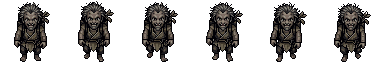
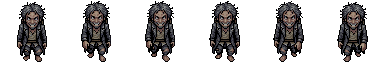
v6.6: Uslu ve Lin yeniden uretildi - kafa orani ve "orman kackini" sorunu
Iki sikayet de tarifteki eksikten geliyordu:
- Mannequin sablonu kucuk figurlerde KAFAYI BUYUTUYOR; Lin bu yuzden
  "anime kizi" gibi cikmisti. Artik ORAN sabiti var: "realistic body
  proportions with a SMALL head ... NOT chibi, NOT big-headed, NOT anime".
- Uslu'nun kabarik sac kutlesi ve kulagina sikistirilmis kuru bitki onu
  orman kackinina cevirmisti. Yeni tarif: sac yatik ve tenine yapisik,
  yirtik SEHIR paltosu, "NO leaves, NO plants, NO twigs, NOT a forest
  hermit, NOT a druid".
Lin artik kul rengi salli, sacini arkaya toplamis, coken yuzlu bir cocuk;
Uslu sigginakta aklini kaybetmis biri gibi duruyor.

Lin'in olcegi .8 -> .74 (oyuncunun %79'u kadardi; sekiz yasindaki bir
cocuk icin uzundu, simdi %73).

Maliyet: 2x(2 karakter + 3 yurume) = 10 uretim.

diff --git a/lib/game/world.ts b/lib/game/world.ts
@@ -57,7 +57,7 @@ export function makeWorld(zone:Zone,flags?:Record<string,string|boolean|undefine
   // ocagin yaninda. Tiga indiyse ve Tuhn ucurumdan cekildiyse ikisi de o atesin
   // basina gelir. `s` sprite olcegi: cocuklar icin ayni sheet kucuk cizilir.
   at({id:'selvi',type:'npc',x:13,y:6,name:'Elvi',portrait:9});
-  at({id:'nil',type:'npc',x:18,y:21,name:'Lin',portrait:7,s:.8});
+  at({id:'nil',type:'npc',x:18,y:21,name:'Lin',portrait:7,s:.74});
   // Kral: sol ust kosede oturur, kimse bakmaz. Uslu ortada dolasir.
   /* Kral: vurulabilir (engine kralHasar). Oldurulduyse kosede cesedi kalir.
      Yeri (5,6) idi: haritanin sol UST cebi, 22 adim uzakta ve ancak ust

diff --git a/lib/game/data.ts b/lib/game/data.ts
@@ -1,6 +1,6 @@
 /** Oyun surumu. Her yayina cikan degisiklikte 0.1 artar: 0.1, 0.2 ... 0.9,
  *  sonra 1.0, 1.1 diye devam eder. Ekranin sol altinda gorunur. */
-export const SURUM='6.5';
+export const SURUM='6.6';
 /** Gelisim asamasi. Oyun oynanabilir ama icerik ve sistemler (item seti, dil
  *  secenegi, masaustu arayuzu) hala eksik - yani alfa. Beta'ya gecisi bu sabit
  *  tasir; surum numarasiyla ayri tutuldu ki 1.x sayimi bozulmasin. */

diff --git a/.claude/skills/kul-ve-yemin-esaslar/SKILL.md b/.claude/skills/kul-ve-yemin-esaslar/SKILL.md
@@ -186,6 +186,13 @@ Yaratıklarda alfa ağırlık merkezi. Referans, aynı yönün mevcut Idle kares
   24 satırından kırpılır; figürü hücrenin tepesine oturt.
 - Düşman portresi gerekiyorsa `enemies/N/D_Idle.png` → `characters/M/`
   kopyala (son muhafız = 15).
+- **Kafa oranı**: mannequin şablonu küçük figürlerde kafayı büyütüyor (Lin
+  "anime kızı" gibi çıkmıştı). `ORAN` sabitini ekle: "realistic body
+  proportions with a SMALL head, the head is small compared to the shoulders,
+  NOT chibi, NOT big-headed, NOT anime, narrow face".
+- İstenmeyen çağrışımı **adıyla yasakla**: Uslu'nun kabarık saçı + kulağındaki
+  kuru bitki onu "orman kaçkını" yapıyordu → "NO leaves, NO plants, NO twigs,
+  NOT a forest hermit, NOT a druid" + "flat tangled strands close to the skull".
 - Yeni karakter tarifine `ORTAK` ekle: "NO backpack, NO satchel, NO straps,
   NO modern clothing, human".
 
@@ -294,4 +301,4 @@ Varlık silmeden önce `grep -o "url(['\"]\?/[^)'\"]*" app/globals.css`.
 
 ---
 
-*Son güncelleme: 2026-09-12, v6.5. Karıştırıyorsa kısalt ya da sil; kullanıcı böyle istedi.*
+*Son güncelleme: 2026-09-12, v6.6. Karıştırıyorsa kısalt ya da sil; kullanıcı böyle istedi.*
